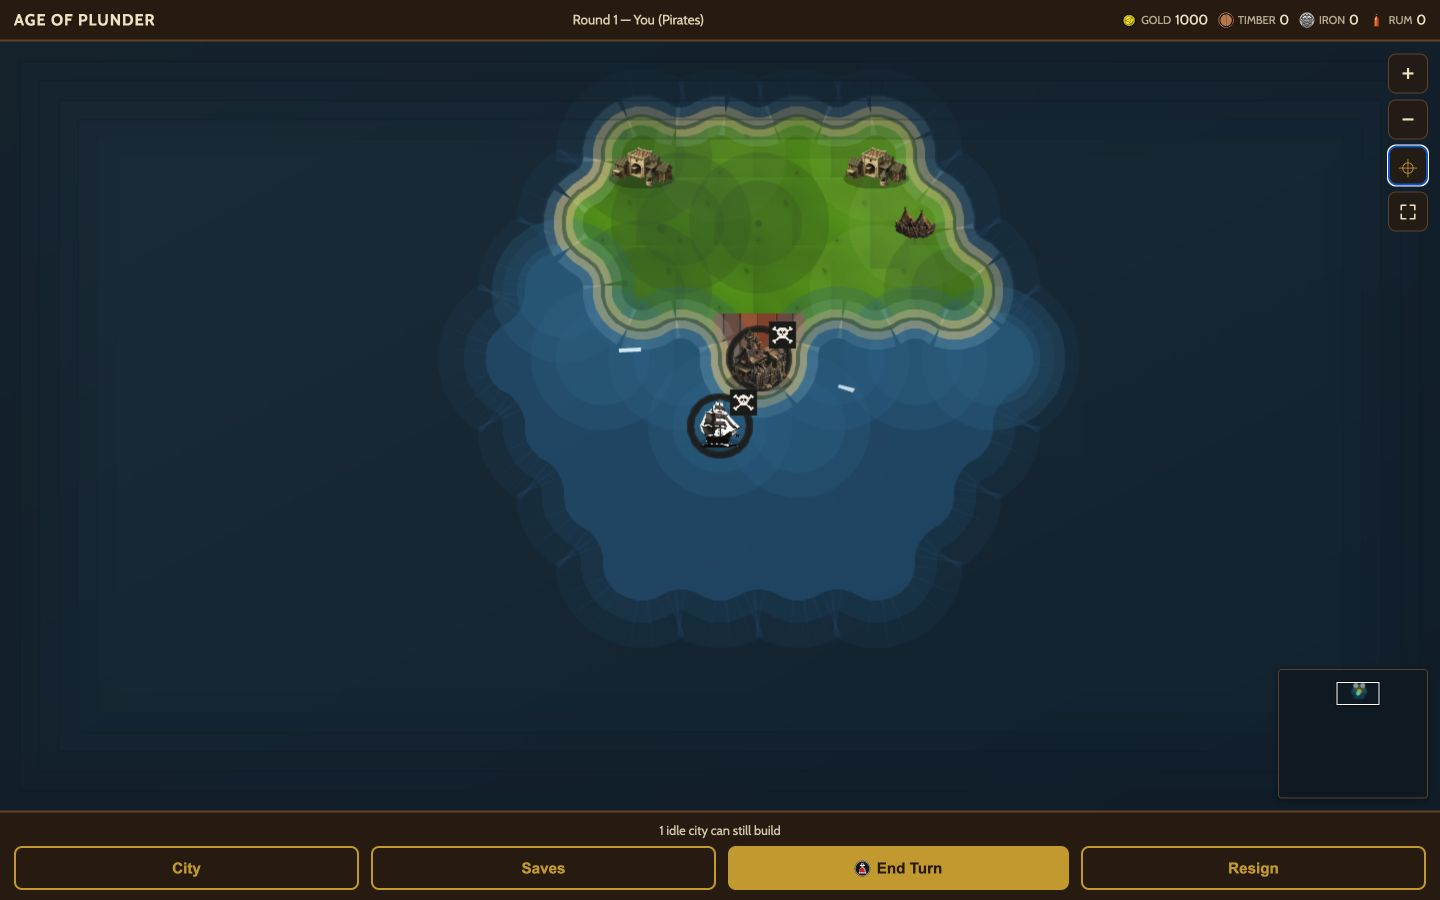
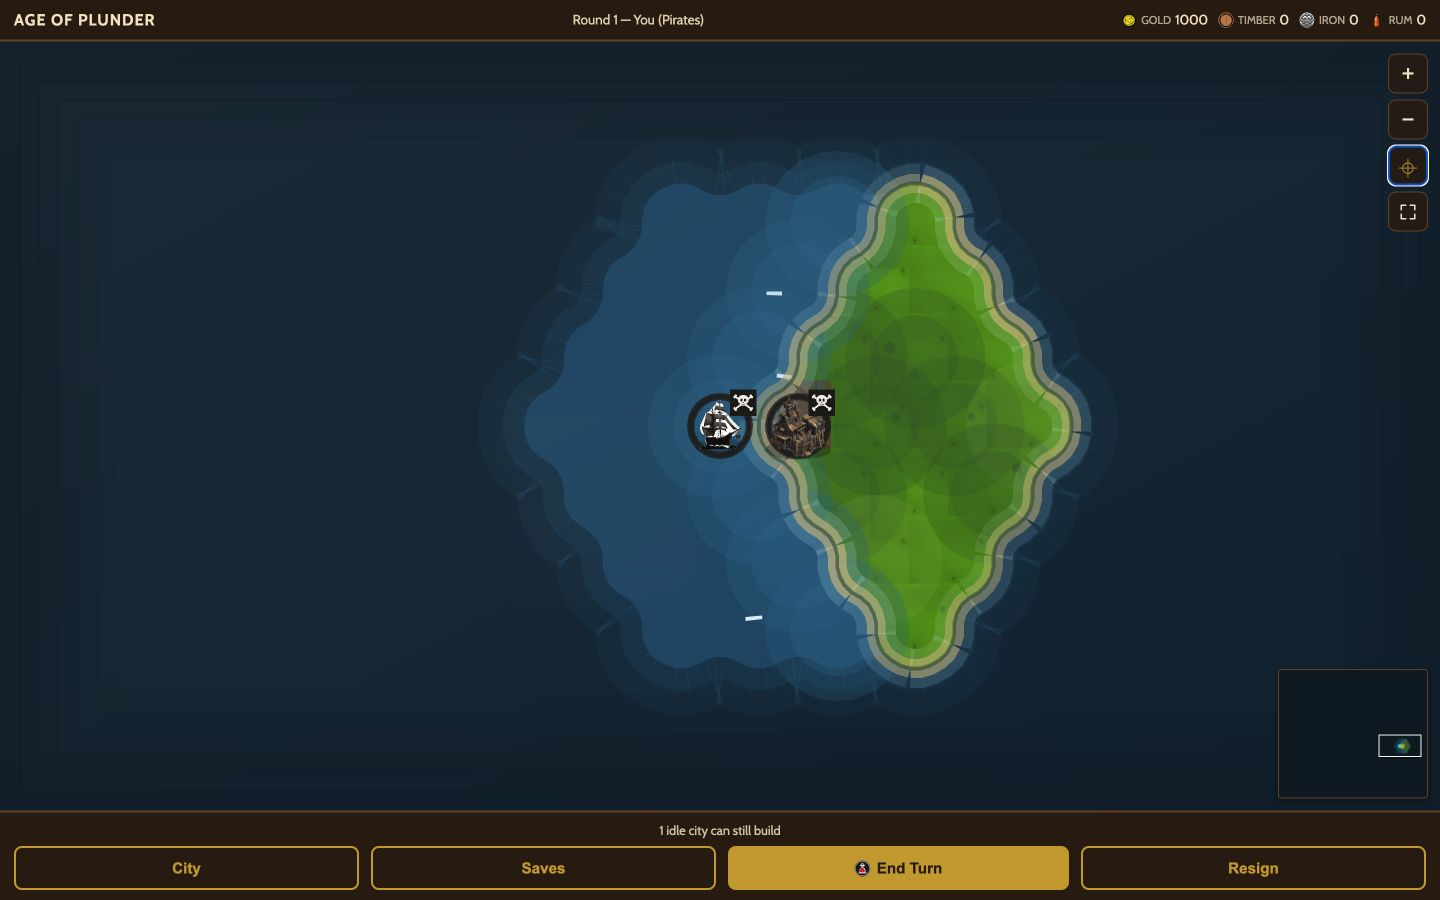
docs: refresh map runtime capture evidence

Changed region(s): [[0.3125, 0.0933, 0.7812, 0.7778], [0.9688, 0.8089, 1.0, 0.84], [0.9375, 0.7467, 0.9688, 0.7778]]

diff --git a/docs/art/world-map-v2/tools/validate_runtime.py b/docs/art/world-map-v2/tools/validate_runtime.py
@@ -66,6 +66,23 @@ FLEET_IDS = [
 REUSED_SHIP_IDS = {"ship:british:sloop", "ship:pirates:galleon"}
 GENERATED_SHIP_IDS = set(FLEET_IDS) - REUSED_SHIP_IDS
 IMAGE_SUFFIXES = {".png", ".webp", ".jpg", ".jpeg"}
+EXPECTED_RUNTIME_CAPTURES = {
+    "desktop-1440x900.jpg": (
+        (1440, 900),
+        61817,
[1 lines of base64/hex data omitted]
+    ),
+    "tablet-768x1024.jpg": (
+        (768, 1024),
+        51000,
[1 lines of base64/hex data omitted]
+    ),
+    "phone-390x844.jpg": (
+        (390, 844),
+        30814,
[1 lines of base64/hex data omitted]
+    ),
+}
 UNRETAINED_ORIGINALS = {
     "encounter:natives": {
[1 lines of base64/hex data omitted]
@@ -457,6 +474,24 @@ def check_referenced_image_census(
     return len(paths)
 
 
+def check_runtime_captures() -> None:
+    capture_root = ROOT / "runtime-captures"
+    captures = {path.name: path for path in capture_root.glob("*.jpg")}
+    if set(captures) != set(EXPECTED_RUNTIME_CAPTURES):
+        fail("runtime capture inventory drifted")
+    record = (ROOT / "RUNTIME-CAPTURES.md").read_text()
+    for name, (dimensions, byte_count, digest) in EXPECTED_RUNTIME_CAPTURES.items():
+        path = captures[name]
+        check_file_budget(path, PROOF_LIMIT, "runtime capture")
+        if path.stat().st_size != byte_count or sha256(path) != digest:
+            fail(f"{name}: runtime capture bytes/hash drifted")
+        with Image.open(path) as image:
+            if image.format != "JPEG" or image.mode != "RGB" or image.size != dimensions:
+                fail(f"{name}: runtime capture format/dimensions drifted")
+        if name not in record or digest not in record:
+            fail(f"{name}: runtime capture record drifted")
+
+
 def expect_negative_control(name: str, check) -> None:
     try:
         check()
@@ -686,6 +721,7 @@ def main() -> None:
     check_ship_stress_coverage(
         proof_by_path["proofs/matte-stress/ship-fleet-alpha-stress-96-all.webp"]
     )
+    check_runtime_captures()
 
     image_count = check_referenced_image_census(registry, additions, public_rows)
 

diff --git a/docs/art/world-map-v2/RUNTIME-CAPTURES.md b/docs/art/world-map-v2/RUNTIME-CAPTURES.md
@@ -1,23 +1,28 @@
 # Runtime capture record
 
 These captures were made from the independently verified issue #609 runtime candidate at
-`855c4c9c30c515a8b57e95177f0fe99982113eb3`, before this evidence-only commit.
+`7c4c56d7a28baea8a7f176e51fadd15d70353648`, after the pre-PR audit repair completed the
+five-faction by four-class fleet. They await renewed operator checkpoint-2 approval for
+these exact pixels.
 
 The in-app browser loaded the local Vite build, started a medium hex map with five faction
-seats, waited for `document.fonts.ready`, zoomed to gameplay detail, and used the shipping
-**Center on fleet** control after each viewport change. All three images therefore show the
-same round-one Pirate world state after eligible default art had settled.
+seats, waited for the interface and eligible default art to settle, zoomed to gameplay
+detail, and used the shipping **Center on fleet** control after each viewport change. All
+three images therefore show the same round-one Pirate world state.
 
 | Capture                                                         | Viewport |  Bytes | SHA-256                                                            |
 | --------------------------------------------------------------- | -------: | -----: | ------------------------------------------------------------------ |
[6 lines of base64/hex data omitted]
 
-The captures verify the same round-one default city, fleet, and nearby land-content slice at
-three actual viewport sizes, together with the explored/visible fog boundary, minimap parity,
-and usable responsive map/control layout. Complete 23-identity coverage at 24, 32, 48, and
-96 px remains in `proofs/matte-stress/runtime-public-contact-sheet-23.webp`.
+The captures verify the same round-one Pirate city and current generated Pirate sloop at
+three actual viewport sizes, together with the explored/visible fog boundary, minimap
+parity, and usable responsive map/control layout. Complete 41-identity coverage at 24, 32,
+48, and 96 px is bound to shipping bytes in
+`proofs/matte-stress/runtime-public-contact-sheet-41.webp`; the dedicated twenty-ship
+color/grayscale matrix is in
+`proofs/matte-stress/ship-fleet-runtime-contact-sheet-20.webp`.
 The hidden-identity sentinel, theme-override priority, decode-failure fallback, preload
 readiness, and no-fallback-pop behavior remain bound by the focused runtime tests and the
 independent exact-head verification; no browser-only claim replaces those tests.

diff --git a/docs/art/world-map-v2/README.md b/docs/art/world-map-v2/README.md
@@ -1,6 +1,10 @@
 # World-map v2 token proof and runtime delivery
 
-**Status:** checkpoint 1 was approved with the recommended city refinement, and checkpoint 2 was approved at `63fc0fd29c9659f93901b36c1822bd7100547188`. This repair completes the Direction B ship family after the pre-PR audit found that only two of the twenty faction/class ship defaults used the new art. The audit still requires a fresh exact-head verification; this document does not claim that audit is resolved. Visibility and gameplay rules are unchanged.
+**Status:** checkpoint 1 was approved with the recommended city refinement, and checkpoint
+2 was approved at `63fc0fd29c9659f93901b36c1822bd7100547188`. The complete Direction B
+ship-family repair independently passed at `7c4c56d7a28baea8a7f176e51fadd15d70353648`.
+Fresh phone/tablet/desktop captures now show that repaired runtime and await renewed
+checkpoint-2 approval for their exact pixels. Visibility and gameplay rules are unchanged.
 
 ## Review the proof
 
@@ -20,7 +24,9 @@ The 32 px column deliberately places each token on the visible side of a fog fro
 - `tokens/` holds optimized 256 px RGBA candidates used by the sheets.
 - `asset-registry.json`, `PROMPTS.md`, and `MANIFEST.md` preserve provenance and constraints.
 - `tools/` contains deterministic preparation, composition, and fail-loud validation.
-- Checkpoint 1 approved the art direction. The later [runtime capture record](RUNTIME-CAPTURES.md) supported checkpoint-2 approval at `63fc0fd29c9659f93901b36c1822bd7100547188`.
+- Checkpoint 1 approved the art direction. The refreshed
+  [runtime capture record](RUNTIME-CAPTURES.md) is bound to the complete-fleet repair at
+  `7c4c56d7a28baea8a7f176e51fadd15d70353648` and awaits renewed checkpoint-2 approval.
 
 ## Runtime candidate
 
@@ -42,8 +48,10 @@ The six overview pages and per-identity `matte-full-footprint-512-*.webp` proofs
 
 ## Operator decision
 
-Checkpoint 2 was approved at `63fc0fd29c9659f93901b36c1822bd7100547188` using the
-[runtime capture record](RUNTIME-CAPTURES.md). This repair changes the ship-default family and
-its evidence, so a fresh verifier must still check the resulting exact head. Focused tests bind
-render and preload to the same registry winner, retain theme-override priority, preserve
-missing-asset fallback, and keep hidden identities out of preload requests.
+Checkpoint 2 was approved at `63fc0fd29c9659f93901b36c1822bd7100547188`. The later
+complete-fleet repair independently passed at
+`7c4c56d7a28baea8a7f176e51fadd15d70353648`, and the refreshed
+[runtime capture record](RUNTIME-CAPTURES.md) now pictures that repaired head. Those exact
+pixels still require renewed operator approval. Focused tests bind render and preload to the
+same registry winner, retain theme-override priority, preserve missing-asset fallback, and
+keep hidden identities out of preload requests.

diff --git a/docs/CONTENT-GENERATION.md b/docs/CONTENT-GENERATION.md
@@ -169,29 +169,25 @@ Say you want a ship sprite for the Pirates faction to replace the flat-color tri
    that won't composite over the map's flat tile colors. Keep 128×128 (a multiple of the
    32px tile grid) and re-export/trim any stray padding.
 
-3. **Place the file** using the suggested convention:
-   `apps/web/public/art/factions/pirates/ship.png`.
+3. **Place the file** using the current convention, including its gameplay class:
+   `apps/web/public/art/factions/pirates/ship_sloop_v2.webp`.
 
-4. **Wire it into content data** — add an art field so the client can look up the sprite by
-   faction id instead of hardcoding a path per component:
+4. **Register the cosmetic default in the web presentation layer** — keep art URLs out of
+   `@aop/content`, because content bytes participate in `ENGINE_VERSION` and replay
+   compatibility. Add the faction/class path to the pure registry instead:
 
    ```ts
-   // packages/content/src/factions.ts
-   export interface FactionDef {
-     id: FactionId
-     name: string
-     description: string
-     units: UnitDef[]
-     shipSpriteUrl?: string // '/art/factions/pirates/ship.png'
+   // apps/web/src/mapArtRegistry.ts
+   const DEFAULT_SHIP_URLS = {
+     'pirates:sloop': '/art/factions/pirates/ship_sloop_v2.webp',
    }
    ```
 
-5. **Integrate into rendering** — `MapCanvas.tsx` currently draws ships with
-   `entities.fill(own ? OWN_SHIP : ENEMY_SHIP)` on a `Graphics` object (~line 167). Swapping
-   in art means loading a `pixi.js` `Texture` from `FACTIONS[faction].shipSpriteUrl` and
-   drawing a `Sprite` instead of a filled shape for that entity — the flat-color fill stays
-   as the fallback for factions/units that don't have art yet, so the map degrades
-   gracefully while art is generated incrementally.
+5. **Use the shared resolver for rendering and preload** — `MapCanvas.tsx` calls
+   `resolveMapShipUrl()` for both paths, with theme overrides ahead of the registered
+   default. The procedural shape remains the decode/missing-file fallback. Do not create a
+   second URL table in the renderer or preload path.
 
-6. **Performance check**: preload faction textures once per match (when the match's
-   factions are known), not per-frame or per-tile-render.
+6. **Performance and privacy check**: build the finite preload set only from identities the
+   current player is allowed to know, wait for each winning URL to load or fail once, and
+   never derive a hidden faction/class URL merely to warm the cache.

diff --git a/docs/art/world-map-v2/MANIFEST.md b/docs/art/world-map-v2/MANIFEST.md
@@ -111,4 +111,8 @@ The two additional generated PNGs initially arrived as 1,254×1,254 RGBA files a
 
 The runtime renderer preserves existing exploration and visibility gates, gives neutral cities a safe neutral default, keeps `city:own` and `city:enemy` theme overrides ahead of faction defaults, and waits for every eligible winning texture to settle as loaded or failed before revealing the interactive map. The wait is finite because failed decodes settle to the existing procedural fallback. It does not preload unseen detail art.
 
-The phone, tablet, and desktop in-game captures in `RUNTIME-CAPTURES.md` supported checkpoint-2 approval at `63fc0fd29c9659f93901b36c1822bd7100547188`. Because this repair changes the ship-default family after that checkpoint, the resulting exact head still requires fresh independent verification. This manifest does not claim the pre-PR audit is resolved.
+The complete-fleet runtime candidate independently passed at
+`7c4c56d7a28baea8a7f176e51fadd15d70353648`. The phone, tablet, and desktop
+captures in `RUNTIME-CAPTURES.md` now picture that repaired head and require renewed
+checkpoint-2 operator approval for those exact pixels. This manifest does not claim that
+approval or that the pre-PR audit is resolved.
